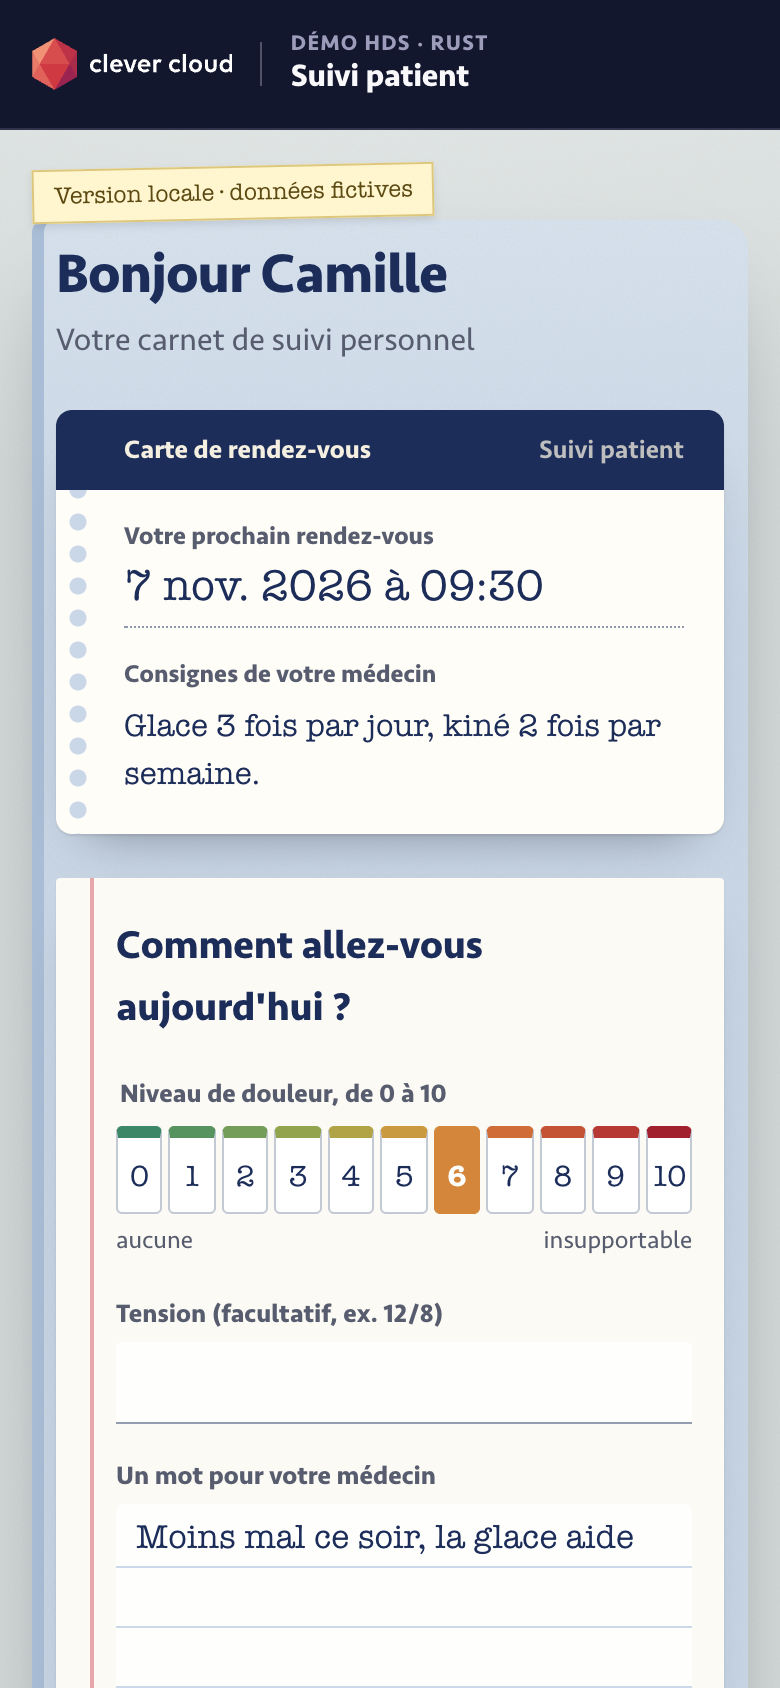
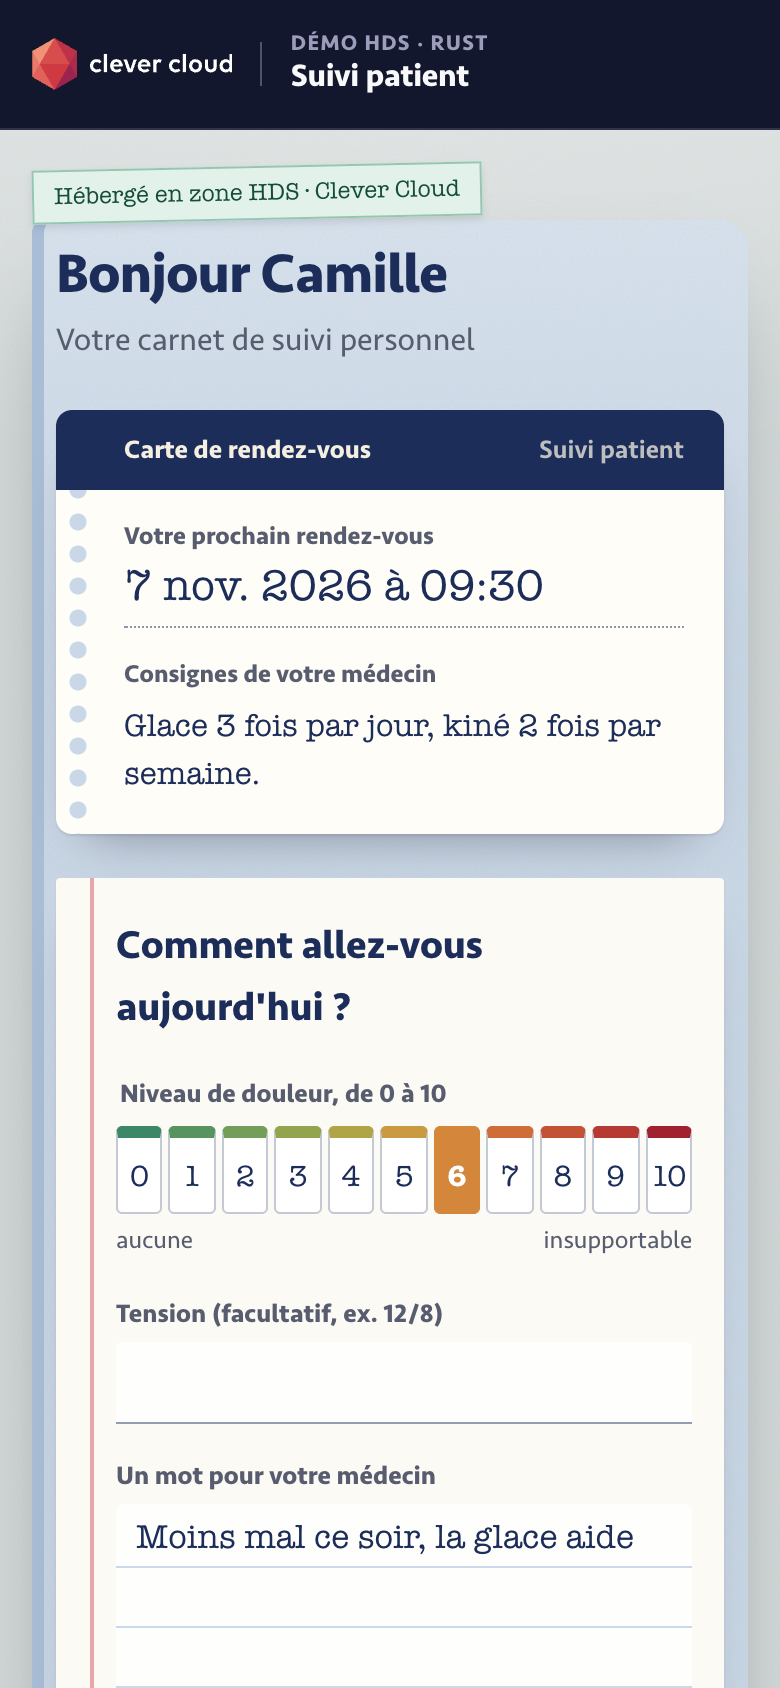
README: screenshots retaken on Clever Cloud (HDS zone)
The five images in docs/ now come from a real deployment in parhds
(4 November 2026), following the Deploy section to the letter:
/conformite reads 21 OK, 0 KO, 1 info with the green Conforme stamp,
instead of the local red stamp (local database without TLS).
Alt texts say "on Clever Cloud (HDS zone)"; a dated proof line gives
the deploy time (1 min 33 s), /conformite and verif-hds.sh (9/9).

Changed region(s): [[0.0308, 0.0924, 0.5846, 0.154]]

diff --git a/README.md b/README.md
@@ -2,19 +2,21 @@
 
 > A patient follow-up app for a doctor's practice, drawn as a **paper medical file** and deployed in Clever Cloud's **HDS zone** (`parhds`, Paris, certified for health data hosting). The practitioner's space is a manila folder with coloured tabs: each patient is an index card with a small pain chart drawn in SVG, and a red stamp when they report a pain of 7/10 or more. The patient's personal link is an appointment card, where they say how they feel on a 0 to 10 scale. Every access lands in a numbered, append-only register (a PostgreSQL trigger refuses any erasure), and each page that opens patient data shows the register number it has just written, as a blue rubber stamp. The public page `/conformite` is an **inspection report**: 21 HDS good practices checked live, from the request itself and from the database (TLS version and cipher read in `pg_stat_ssl`, security headers, session, log trigger), with the proof typed on each line and a final stamp. `scripts/verif-hds.sh` checks the platform side: zone, encryption at rest, backups, forced HTTPS, 2FA. One binary on the **native Rust runtime**, no Dockerfile, a **PostgreSQL add-on** on a dedicated plan, encrypted at rest, and no third-party resource at all: system fonts, SVG drawings, no JavaScript.
 
-![The practitioner's folder, run locally: three fictional patients as index cards, one pain alert stamped 8/10, the access-register stamp](docs/screenshot-desktop.png)
+![The practitioner's folder, on Clever Cloud (HDS zone): three fictional patients as index cards, one pain alert stamped 8/10, the access-register stamp](docs/screenshot-desktop.png)
 
-<img src="docs/screenshot-phone.png" alt="A patient's appointment card on a phone, run locally: next appointment, instructions, pain scale with 6 selected" width="300">
+<img src="docs/screenshot-phone.png" alt="A patient's appointment card on a phone, on Clever Cloud (HDS zone): next appointment, instructions, pain scale with 6 selected" width="300">
+
+**Screenshots taken on Clever Cloud, HDS zone (`parhds`), 4 November 2026**, after following [Deploy on Clever Cloud](#deploy-on-clever-cloud) to the letter: full `clever deploy` in 1 min 33 s (first build, `cargo build --release --locked` 26 s on the dedicated M build), `/conformite` 21 OK, 0 KO, 1 info (PostgreSQL 18.6 over TLSv1.3), `verif-hds.sh` 9/9. App and database deleted afterwards.
 
 **Run it yourself.** The hosted demo was taken down after the presales review (November 2026). The steps in [Deploy on Clever Cloud](#deploy-on-clever-cloud) recreate it from scratch in about 5 minutes.
 
 **Fictional data only;** production health data requires a signed HDS contract with Clever Cloud.
 
-![A patient's file, run locally: the pain chart with its alert zone above 7, the appointment card holding the personal link, and the register stamp](docs/screenshot-fiche.png)
+![A patient's file, on Clever Cloud (HDS zone): the pain chart with its alert zone above 7, the appointment card holding the personal link, and the register stamp](docs/screenshot-fiche.png)
 
 ## What the HDS zone does here
 
-![The /conformite inspection report, run locally: the database TLS line fails locally, hence the red stamp; on Clever Cloud the same page reads 21 OK, 0 KO](docs/screenshot-conformite.png)
+![The /conformite inspection report, on Clever Cloud (HDS zone): 21 OK, 0 KO, 1 info, the database reached over TLSv1.3, the green Conforme stamp](docs/screenshot-conformite.png)
 
 | Practice | How | Where you see it in the file |
 |---|---|---|
@@ -36,7 +38,7 @@
 
 `/conformite` (and `/conformite.json`, unchanged) holds no patient data: 21 checks plus the PostgreSQL version, computed at each load, and the six platform points that `verif-hds.sh` covers. The final stamp reads **Conforme** when no line fails. On Clever Cloud (`parhds`, 4 November 2026) the page read 21 OK, 0 KO, 1 info (the PostgreSQL version). Run locally, the database TLS line fails and the sslmode, HTTPS and Secure-cookie lines are information only. The PostgreSQL add-on's TLS certificate is self-signed: `require` encrypts the connection without verifying the chain.
 
-![The end of the report, run locally: the six platform points left to verif-hds.sh, the visa, and the Clever Cloud Academy seal](docs/screenshot-visa.png)
+![The end of the report, on Clever Cloud (HDS zone): the six platform points left to verif-hds.sh, the visa, and the Clever Cloud Academy seal](docs/screenshot-visa.png)
 
 The report closes on a visa and a seal: the Clever Cloud Academy badge, with "Cette app tourne sur Clever Cloud. Vous aussi, certifiez-vous." and a link to [academy.clever.cloud](https://academy.clever.cloud). Every other page carries the same invitation at the foot of the folder, next to the "Running on Clever Cloud" archive label (`CC_APP_NAME`, `APP_ID`, `INSTANCE_NUMBER`, `INSTANCE_TYPE`, `CC_PRETTY_INSTANCE_NAME`, short `CC_COMMIT_ID`, `CC_DEPLOYMENT_ID`; "Local" outside the platform).
 
